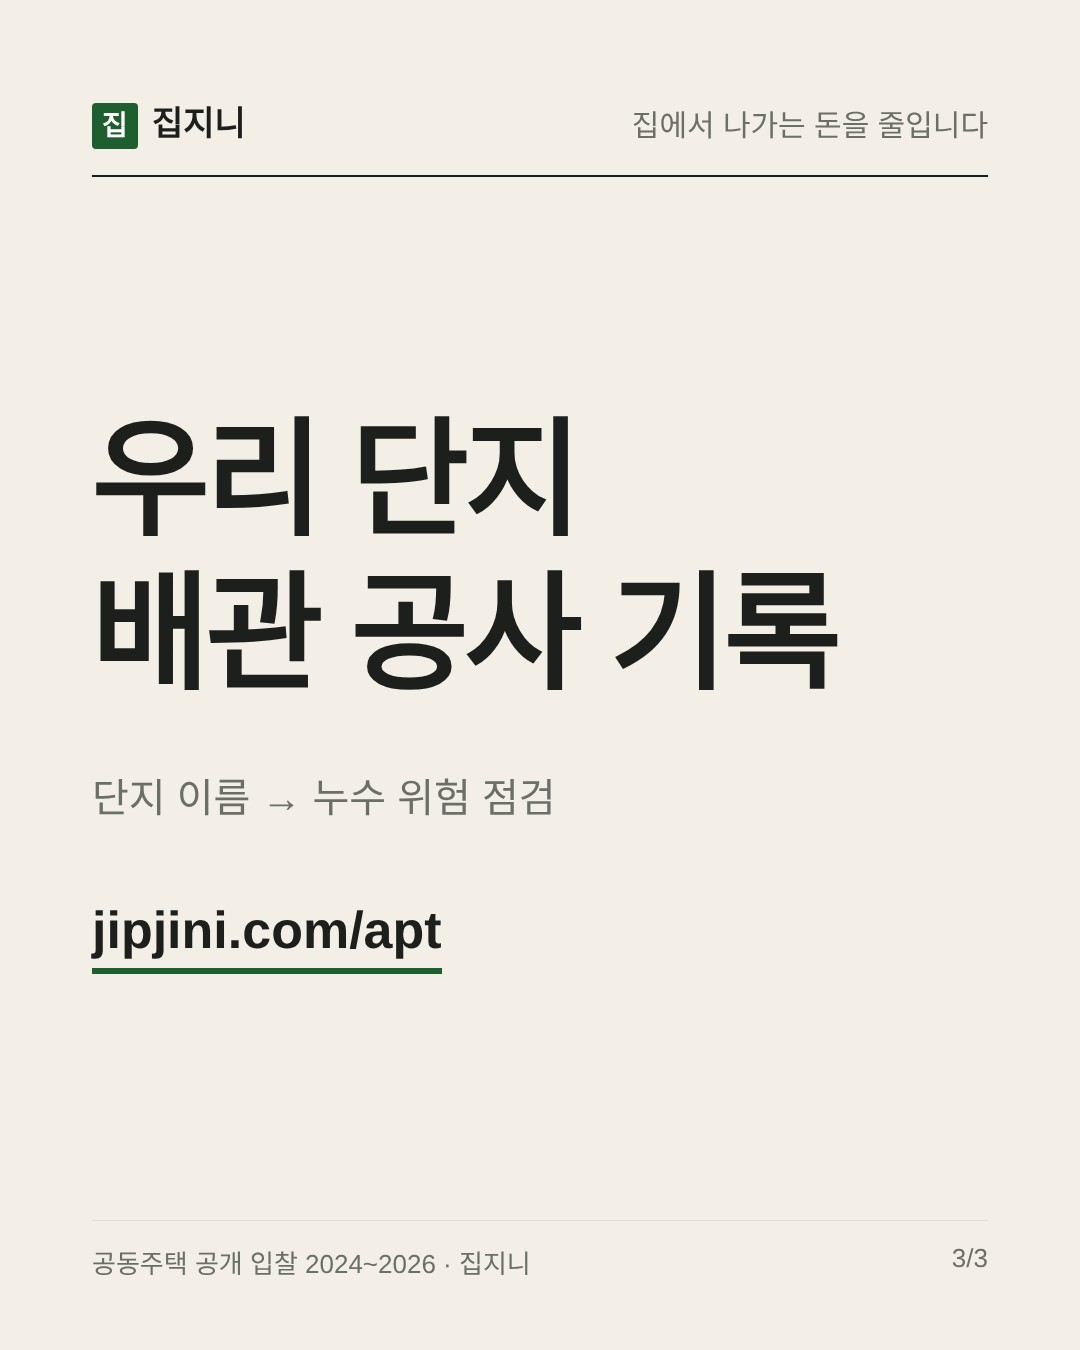
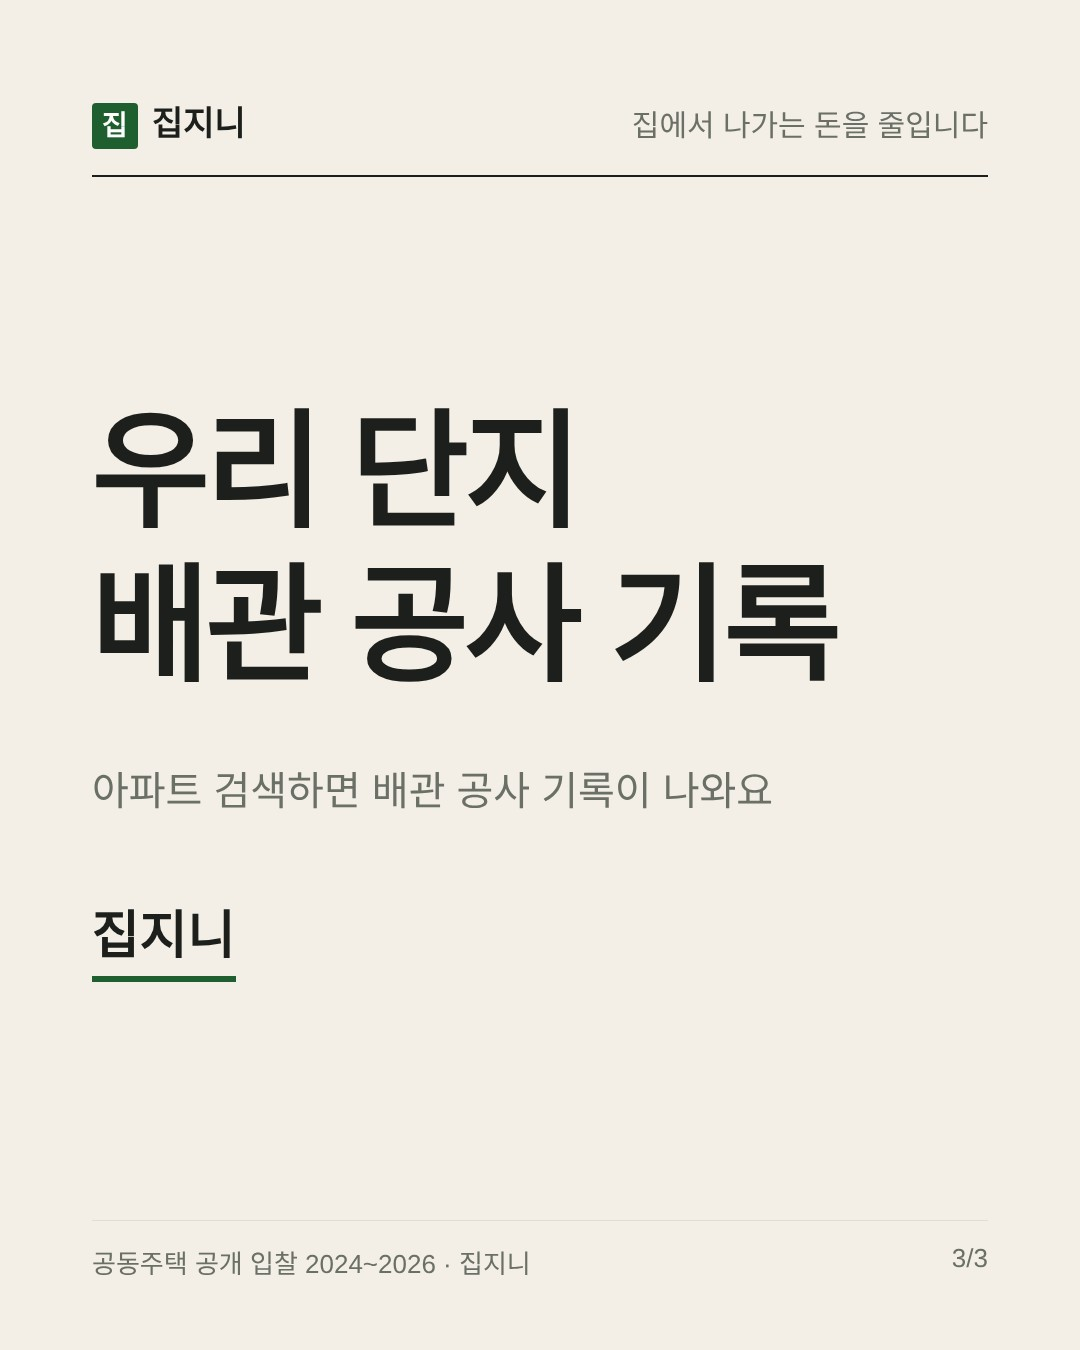
마케팅: 주소 대신 「집지니」만, 끝 카드 문장을 뜻이 통하는 완결 문장으로 + 검수·작성 규칙
Claude-Session: https://claude.ai/code/session_01EWAutn6yu8RhtVwgyvFZah

diff --git a/tools/mk/check.py b/tools/mk/check.py
@@ -1,6 +1,6 @@
 """집지니 마케팅 팀 ④ 검수 — 통과(PASS) 못 하면 올라가지 않는다.
 쓰임: python3 tools/mk/check.py mk/queue/<주>.json   (실패 시 종료 코드 1, 무엇이 왜 틀렸는지 줄마다)
-규칙: 숫자는 mk/facts.json 에 있는 것만 · 공사비 글은 「부가세 10% 별도」 · 이모지·과장 금지어 없음 · 길이 · 카드 3~7장(첫 장 hook, 끝 장 cta) · 링크는 jipjini.com · 사진 파일 있음"""
+규칙: 숫자는 mk/facts.json 에 있는 것만 · 공사비 글은 「부가세 10% 별도」 · 이모지·과장 금지어 없음 · 길이 · 카드 3~7장(첫 장 hook, 끝 장 cta) · 링크는 jipjini.com(내부용) · 글·카드엔 주소 대신 「집지니」만 · 사진 파일 있음"""
 import json, re, sys, os, pathlib
 ROOT = pathlib.Path(__file__).resolve().parents[2]
 BAN = ["보장합니다", "최저가 보장", "무조건 싸", "100%", "업계 1위"]   # 2026-11-28 대표 「헐 미친 대박 등 … 더욱더 쌔고 자극적으로」 — 감탄·병맛은 허용, 사실을 장담하는 말만 막음
@@ -25,6 +25,8 @@ def main(qf):
         if len(it.get("본문", "")) > 2000: bad.append(f"{i}: 인스타 본문 2,000자 넘음")
         if not it.get("스레드") or len(it["스레드"]) > 450: bad.append(f"{i}: 스레드 글 없음 또는 450자 넘음")
         if not str(it.get("링크", "")).startswith("https://jipjini.com"): bad.append(f"{i}: 링크는 jipjini.com 깊은 쪽으로")
+        shown = " ".join([it.get("본문", ""), it.get("스레드", "")] + [str(c.get("url", "")) for c in cs])
+        if re.search(r"jipjini\.com|https?://", shown): bad.append(f"{i}: 글·카드에 주소 노출 — 「집지니」로만 (2026-11-28 대표)")
         extra = sorted(n for n in nums(txt) - allow if not re.fullmatch(r"\d{1,2}", n) or int(n) > 12)
         if extra: bad.append(f"{i}: 소재에 없는 숫자 {extra} — facts.json 숫자만 쓴다")
         for w in BAN:

diff --git a/tools/mk/cards.py b/tools/mk/cards.py
@@ -79,7 +79,7 @@ def slide(x, i, n):
     elif k == "bill":
         body = f'<div class="t" style="margin:0 0 40px">{hl(x.get("t", ""))}</div><div class="billbox"><h4>관리비 고지서</h4>' + "".join(f'<div class="{"hi" if j == x.get("hi") else ""}"><span>{E(a)}</span><span>{E(b)}</span></div>' for j, (a, b) in enumerate(x["rows"])) + f'</div><div class="s">{hl(x.get("s", ""))}</div>'
     elif k == "cta":
-        body = f'<div class="h">{hl(x.get("t", "우리 단지는?"))}</div><div class="s">{hl(x.get("s", "단지 이름만 넣으면 30초"))}</div><span class="url">{E(x.get("url", "jipjini.com"))}</span>'
+        body = f'<div class="h">{hl(x.get("t", "우리 단지는?"))}</div><div class="s">{hl(x.get("s", "아파트 검색하면 우리 집 공사비가 바로 나와요"))}</div><span class="url">{E(x.get("url", "집지니"))}</span>'
     else:
         body = f'<div class="h">{hl(x.get("t", ""))}</div><div class="s">{hl(x.get("s", ""))}</div>'
     bg = ""

diff --git a/.claude/agents/jj-writer.md b/.claude/agents/jj-writer.md
@@ -16,3 +16,8 @@ tools: Bash, Read, Write, Edit
 - 배경: "plan":"단지번호" → 그 단지 진짜 평면도를 흐리게 깔기(공사비·도면·누수 글), "bg":"이미지 주소" → 사진 배경(어둡게 덮어 글씨가 읽히게).
 - 색 틀은 편마다 저절로 돌아감(먹색·종이색·노랑·초록). 특정 편만 바꾸려면 "테마":"t-yellow" 처럼.
 - 한 주 7편에 같은 첫 장 종류를 세 번 넘게 쓰지 않는다. 그림을 Read 로 직접 열어 글씨 겹침을 확인.
+
+## 끝 카드·주소 규칙 (2026-11-28 대표)
+- 주소(jipjini.com/apt 등)는 글·카드·영상 어디에도 쓰지 않는다. 「집지니」로만. (링크 칸은 내부용으로만 둠)
+- 행동 문장은 「무엇을 하면 → 무엇이 나온다」가 한 번에 이해되는 완결 문장으로. 예: 「아파트 검색하면 우리 집 공사비가 바로 나와요」.
+  금지: 「아파트 이름만 넣으면 30초」(무엇이 30초인지 없음), 「단지 이름 → 누수 위험 점검」 같은 화살표 토막말.
